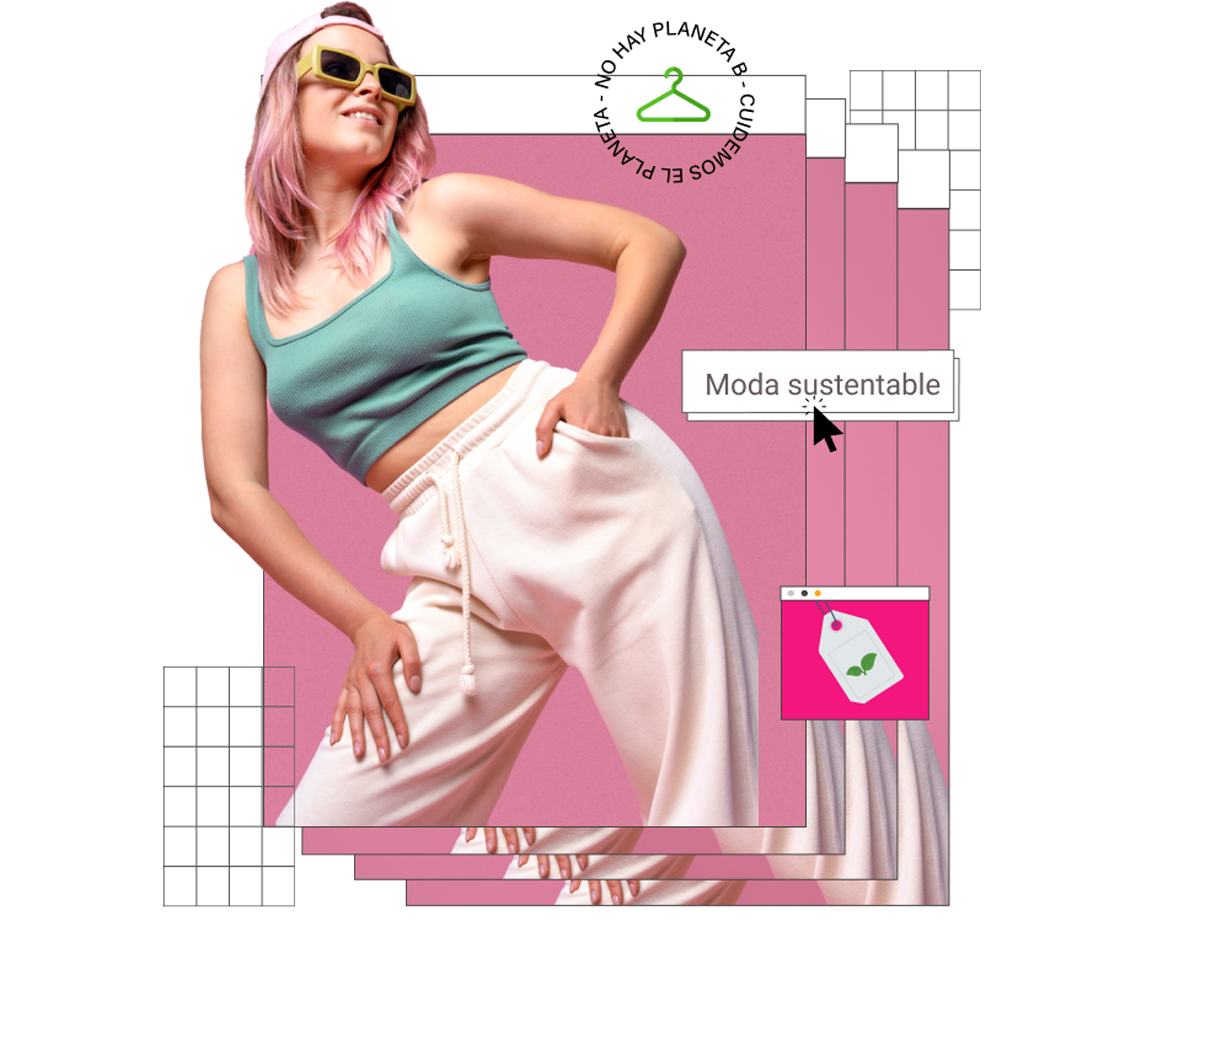
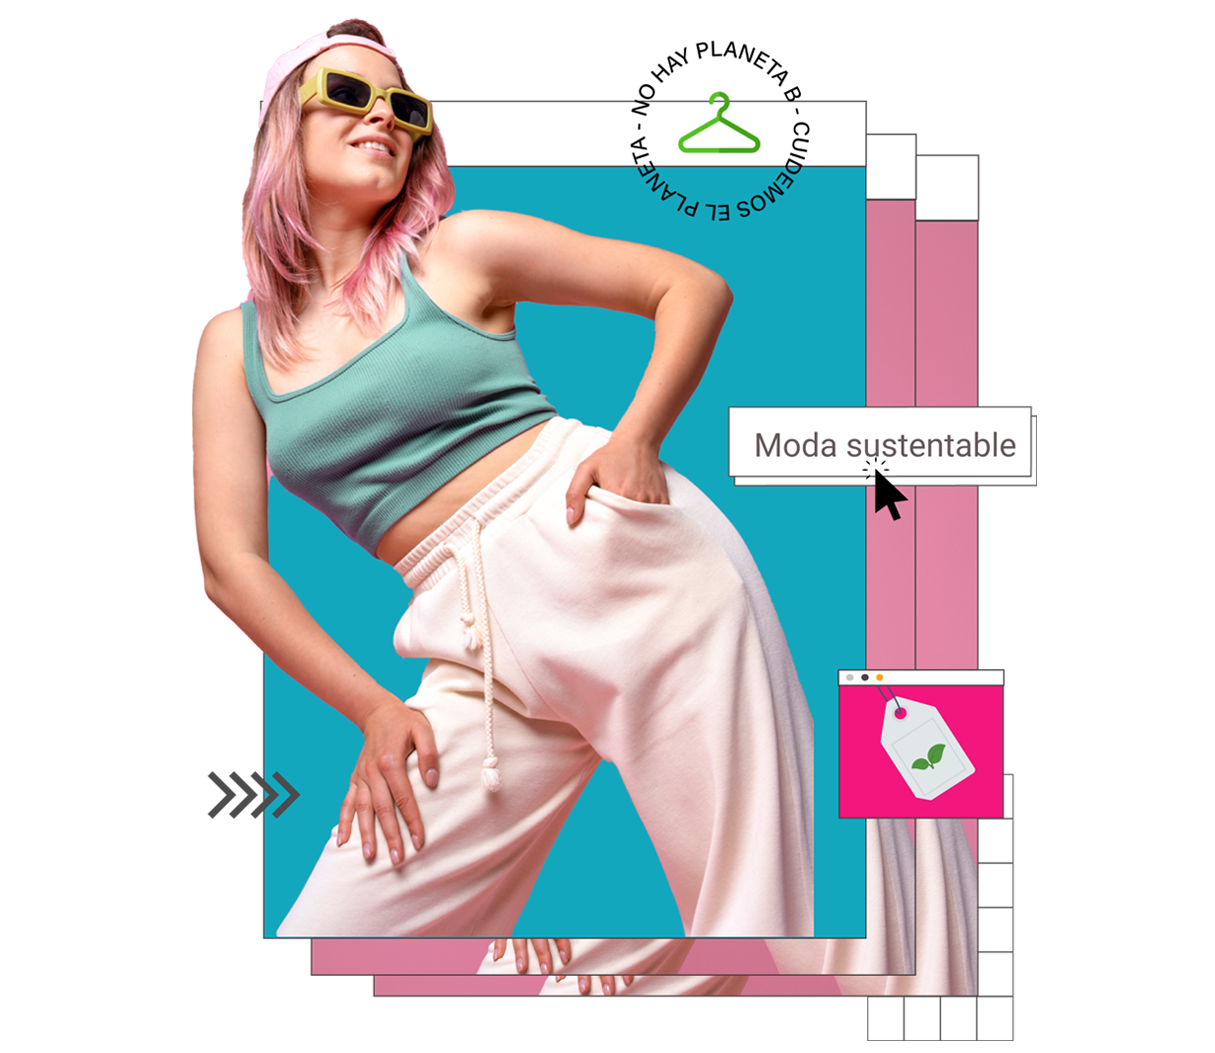
cambios

diff --git a/assets/css/style.css b/assets/css/style.css
@@ -128,7 +128,27 @@ margin: 5px;
   color: #28044C;
 }
 
+.pricing .section-header p  {
+  margin: 10px 0 0 0;
+  padding: 0;
+  font-size: 38px;
+  line-height: 42px;
+  font-weight: 400;
+  color: #ffffff !important;
+}
+.testimonials .section-header p  {
+  margin: 10px 0 0 0;
+  padding: 0;
+  font-size: 38px;
+  line-height: 42px;
+  font-weight: 400;
+  color: #ffffff !important;
+}
 
+.pricing .section-header h4  {
+ 
+  color: #ffffff !important;
+}
 @media (max-width: 768px) {
   .section-header p {
     font-size: 28px;
@@ -211,7 +231,7 @@ margin: 5px;
 }
 
 .back-to-top:hover {
-  background: #6776f4;
+  background: #25A6BA;
   color: #fff;
 }
 
@@ -555,7 +575,7 @@ margin: 5px;
   margin-top: 30px;
   line-height: 0;
   padding: 15px 40px;
-  border-radius: 4px;
+  border-radius: 10px;
   transition: 0.5s;
   color: #fff;
   background: #28044C;
@@ -630,21 +650,23 @@ margin: 5px;
 # About
 --------------------------------------------------------------*/
 .about .content {
-  background-color: #f6f9ff;
+  background-color: #E42D82;
   padding: 40px;
+ color: #ffffff;
+ font-family: "Bricolage Grotesque", sans-serif;
 }
 
 .about h3 {
   font-size: 14px;
   font-weight: 700;
-  color: #4154f1;
+  color: #ffffff;
   text-transform: uppercase;
 }
 
 .about h2 {
   font-size: 28px;
   font-weight: 400;
-  color: #28044C;
+  color: #ffffff;
   font-family: "Russo One", sans-serif;
 }
 
@@ -656,15 +678,15 @@ margin: 5px;
 .about .btn-read-more {
   line-height: 0;
   padding: 15px 40px;
-  border-radius: 4px;
+  border-radius: 10px;
   transition: 0.5s;
   color: #fff;
-  background: #4154f1;
-  box-shadow: 0px 5px 25px rgba(65, 84, 241, 0.3);
+  background: #28044C;
+  box-shadow: 0px 5px 25px rgba(255, 255, 255, 0);
 }
 
 .about .btn-read-more span {
-  font-family: "Nunito", sans-serif;
+  font-family: "Bricolage Grotesque", sans-serif !important;
   font-weight: 600;
   font-size: 16px;
   letter-spacing: 1px;
@@ -680,6 +702,9 @@ margin: 5px;
   transform: translateX(5px);
 }
 
+#about .about {
+  background-color:#E42D82
+}
 /*--------------------------------------------------------------
 # Values
 --------------------------------------------------------------*/
@@ -823,8 +848,8 @@ margin: 5px;
 }
 
 .features .feture-tabs .nav-link.active {
-  color: #4154f1;
-  border-bottom: 3px solid #4154f1;
+  color: #25A6BA;
+  border-bottom: 3px solid #25A6BA;
 }
 
 .features .feture-tabs .tab-content h4 {
@@ -1067,12 +1092,13 @@ margin: 5px;
   font-weight: 700;
   font-size: 18px;
   margin-bottom: 15px;
+  
 }
 
 
 .pricing .price {
   font-size: 36px;
-  color: #000000;
+  color: #28044C;
   font-weight: 400;
   font-family: "Russo One", sans-serif;
 }
@@ -1096,7 +1122,7 @@ margin: 5px;
 .pricing ul {
   padding: 0;
   list-style: none;
-  color: #444444;
+  color: #28044C;
   text-align: center;
   line-height: 26px;
   font-size: 16px;
@@ -1116,18 +1142,18 @@ margin: 5px;
   display: inline-block;
   padding: 8px 40px 10px 40px;
   border-radius: 50px;
-  color: #4154f1;
+  color: #28044C;
   transition: none;
   font-size: 16px;
   font-weight: 400;
-  font-family: "Nunito", sans-serif;
+  font-family: "Bricolage Grotesque", sans-serif;
   font-weight: 600;
   transition: 0.3s;
-  border: 1px solid #4154f1;
+  border: 1px solid #28044C;
 }
 
 .pricing .btn-buy:hover {
-  background: #4154f1;
+  background: #28044C;
   color: #fff;
 }
 
@@ -1140,14 +1166,14 @@ margin: 5px;
   z-index: 1;
   font-size: 14px;
   padding: 1px 0 3px 0;
-  background: #4154f1;
+  background: #28044C;
   color: #fff;
 }
 
 .pricing {
   width: 100%;
   height: 100vh;
-  background: url(../img/hero-bg.png) top center no-repeat;
+  background: url(../img/hero-bg12.png) top center no-repeat;
   background-size: cover;
   
 }
@@ -1468,9 +1494,9 @@ margin: 5px;
 
 .testimonials .testimonial-item h3 {
   font-size: 18px;
-  font-weight: bold;
+  font-weight: 800;
   margin: 10px 0 5px 0;
-  color: #111;
+  color: #E42D82;
 }
 
 .testimonials .testimonial-item h4 {
@@ -1492,13 +1518,13 @@ margin: 5px;
 .testimonials .swiper-pagination .swiper-pagination-bullet {
   width: 12px;
   height: 12px;
-  background-color: #fff;
+  background-color: #25A6BA;
   opacity: 1;
-  border: 1px solid #4154f1;
+  border: 1px solid #28044C;
 }
 
 .testimonials .swiper-pagination .swiper-pagination-bullet-active {
-  background-color: #4154f1;
+  background-color: #28044C;
 }
 
 .testimonials .swiper-slide {
@@ -1521,6 +1547,18 @@ margin: 5px;
     transform: scale(1.12);
   }
 }
+.testimonials  {
+background: url(../img/hero-bg.png) top center no-repeat;
+margin-bottom: 90px;
+padding-bottom: 90px;
+}
+
+.testimonial-item p {
+font-family: "Bricolage Grotesque", sans-serif !important;
+font-weight: 500;
+color: #28044C;
+}
+
 
 
 /*--------------------------------------------------------------
@@ -1821,7 +1859,7 @@ margin: 5px;
 }
 
 .contact .php-email-form button[type=submit]:hover {
-  background: #5969f3;
+  background: #25A6BA;
 }
 
 
@@ -2403,7 +2441,7 @@ margin: 5px;
 }
 
 .footer .footer-top {
-  background:#F1177D;
+  background:#E42D82;
   background-size: contain;
   border-top: 0px solid #e1ecff;
   border-bottom: 0px solid #e1ecff;

diff --git a/index.html b/index.html
@@ -280,12 +280,12 @@
         <div class="tab-content">
 
           <div class="tab-pane fade show active" id="tab1">
-            <p>Ecostyle te propone una experiencia para comprar un box de ropa circular y que puedas usarlo por un tiempo determinado.</p>
+            <p>Ecostyle te propone una <strong>experiencia</strong> para comprar un box de ropa <strong>circular</strong> y que puedas usarlo por un tiempo determinado.</p>
             <div class="d-flex align-items-center mb-2">
              <!-- <i class="bi bi-check2"></i>-->
              <!-- <h4>Repudiandae rerum velit modi et officia quasi facilis</h4>-->
             </div>
-            <p>Y que cuando llegue ese plazo puedas comprarlo o devolverlo u alquilar otro. Explorá y descubrí el box que más te guste y unite a Ecostyle!</p>
+            <p>Y que cuando llegue ese plazo puedas <strong>comprarlo o devolverlo u alquilar otro</strong>. Explorá y descubrí el box que más te guste y unite a Ecostyle!</p>
             <div class="d-flex align-items-center mb-2">
              <!-- <i class="bi bi-check2"></i>-->
               <!-- <h4>Incidunt non veritatis illum ea ut nisi</h4>-->
@@ -579,11 +579,13 @@
               <ul>
                  <!--<li>5 PRENDAS</li>-->
                 <li>Suscripción por 30 días</li>
+                <li class="na">1 item sorpresa de regalo</li>
+                <li class="na">Incluye accesorios</li>
                 <li>Envío inmediato</li>
                 <!--<li>Pharetra massa</li>
                 <li>Massa ultricies mi</li>-->
               </ul>
-              <a href="#" class="btn-buy">SUSCRIBIRME</a>
+              <a href="blog.html" class="btn-buy">SUSCRIBIRME</a>
             </div>
           </div>
 
@@ -595,11 +597,12 @@
               <ul>
                 <!--<li>8 PRENDAS</li>-->
                 <li>Suscripción por 60 días</li>
+                <li class="na">1 item sorpresa de regalo</li>
                 <li>Incluye accesorios</li>
                 <li>Envío inmediato</li>
-                <!--<li>Massa ultricies mi</li>-->
+                
               </ul>
-              <a href="#" class="btn-buy">SUSCRIBIRME</a>
+              <a href="blog.html"  class="btn-buy">SUSCRIBIRME</a>
             </div>
           </div>
 
@@ -616,7 +619,7 @@
                 <li>Incluye accesorios</li>
                 <li class= >Envío sin cargo y más...</li>
               </ul>
-              <a href="#" class="btn-buy">SUSCRIBIRME</a>
+              <a href="blog.html"  class="btn-buy">SUSCRIBIRME</a>
             </div>
           </div>
 
@@ -755,10 +758,10 @@
         <div class="row" data-aos="fade-up" data-aos-delay="100">
           <div class="col-lg-12 d-flex justify-content-center">
             <ul id="portfolio-flters">
-              <li data-filter="*" class="filter-active">All</li>
-              <li data-filter=".filter-app">App</li>
-              <li data-filter=".filter-card">Card</li>
-              <li data-filter=".filter-web">Web</li>
+              <li data-filter="*" class="filter-active">Todas</li>
+              <li data-filter=".filter-app">Demin</li>
+              <li data-filter=".filter-card">Boxes</li>
+              <li data-filter=".filter-web">Trendy</li>
             </ul>
           </div>
         </div>
@@ -1142,7 +1145,7 @@
             </p>
             <div class="profile mt-auto">
               <img src="assets/img/testimonials/testimonials-4.jpg" class="testimonial-img" alt="">
-              <h3>Camila Andrade</h3>
+              <h3>Santiago Andrade</h3>
               <h4>Freelancer</h4>
             </div>
           </div>
